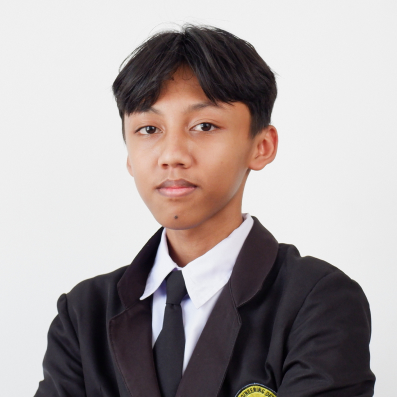
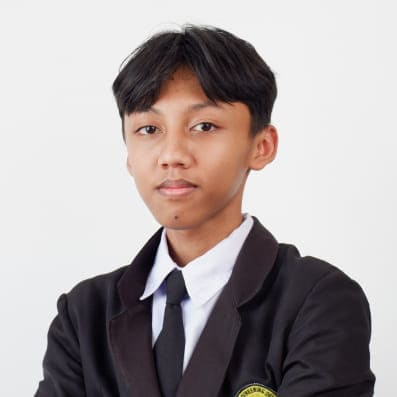
compress images

diff --git a/resources/views/home.blade.php b/resources/views/home.blade.php
@@ -24,7 +24,7 @@
     @endif
 
 {{-- Hero Section --}}
-<section class="bg-center bg-no-repeat bg-cover bg-neutral-40 bg-blend-multiply lg:h-[100vh]" style="background-image: url('{{ asset('img/noiu.jpg') }}')">
+<section class="bg-center bg-no-repeat bg-cover bg-neutral-40 bg-blend-multiply lg:h-[100vh]" style="background-image: url('{{ asset('img/noiu.jpg') }}')" loading="lazy">
     <div class="px-4 mx-auto max-w-screen-xl text-center py-44 lg:py-56">
         <h1 class="mb-4 text-2xl font-extrabold tracking-tight leading-none text-white sm:text-4xl md:text-5xl lg:text-6xl">Together We Make
             <span id="typewriter" class="text-secondary-40"></span>
@@ -44,10 +44,10 @@
 
         @for ($i = 1; $i <= 12; $i++)
         <div class="flex justify-center items-center cursor-pointer">
-            <img class="w-12 md:w-24 hover:scale-110 transition-transform duration-[400ms] cursor-pointer" src="{{ asset('img/clients/logo' . $i . '.png') }}" alt="">
+            <img class="w-12 md:w-24 hover:scale-110 transition-transform duration-[400ms] cursor-pointer" src="{{ asset('img/clients/logo' . $i . '.png') }}" alt="" loading="lazy">
         </div>
         @endfor
-        
+
     </div>
 </section>
 
@@ -55,7 +55,7 @@
 <section class="bg-white px-12 mt-10 lg:mt-20">
     <div class="flex flex-col lg:flex-row gap-8 items-center mx-auto max-w-screen-xl xl:gap-16">
         <div class="lg:w-[200px] lg:h-[320px] rounded-lg overflow-hidden cursor-pointer">
-            <img class="object-cover w-full h-full transform origin-center hover:scale-125 transition-transform duration-500" src="{{ asset('img/noiu.jpg') }}" alt="NOIU Image">
+            <img class="object-cover w-full h-full transform origin-center hover:scale-125 transition-transform duration-500" src="{{ asset('img/noiu.jpg') }}" alt="NOIU Image" loading="lazy">
         </div>
         <div class="lg:w-3/4">
             <h2 class="mb-4 text-2xl sm:text-4xl tracking-tight font-extrabold text-black">NOIU EVENT ORGANIZER</h2>

diff --git a/resources/views/outbound.blade.php b/resources/views/outbound.blade.php
@@ -17,7 +17,7 @@
                             class="max-w-xs bg-white border border-neutral-20 rounded-lg shadow mx-auto md:mx-0 mb-5 md:ml-9">
                             <div class="rounded-t-lg w-[318px] h-[229px] overflow-hidden">
                                 <img class="object-cover w-full h-full transform origin-center hover:scale-125 transition-transform duration-500 cursor-pointer"
-                                    src="{{ asset('/storage/' . $pkg->picture) }}" alt="" />
+                                  src="{{ asset('/storage/' . $pkg->picture) }}" alt="" loading="lazy" />
                             </div>
                             <div class="p-5">
                                 <h5 class="mb-2 text-xl font-bold tracking-tight text-black">{{ $pkg->name }}</h5>
@@ -53,7 +53,7 @@
                 <!-- Modal header -->
                 <div class="flex flex-col md:flex-row gap-4">
                     <div class="md:mb-4 md:w-[600px]">
-                        <img id="img_modal" class="mb-4 w-full h-full rounded-lg" alt="Image">
+                        <img id="img_modal" class="mb-4 w-full h-full rounded-lg" alt="Image" loading="lazy">
                     </div>
                     <div class="md:w-3/4">
                         <h3 id="name_modal" class="mb-6 text-2xl text-black font-semibold"></h3>
